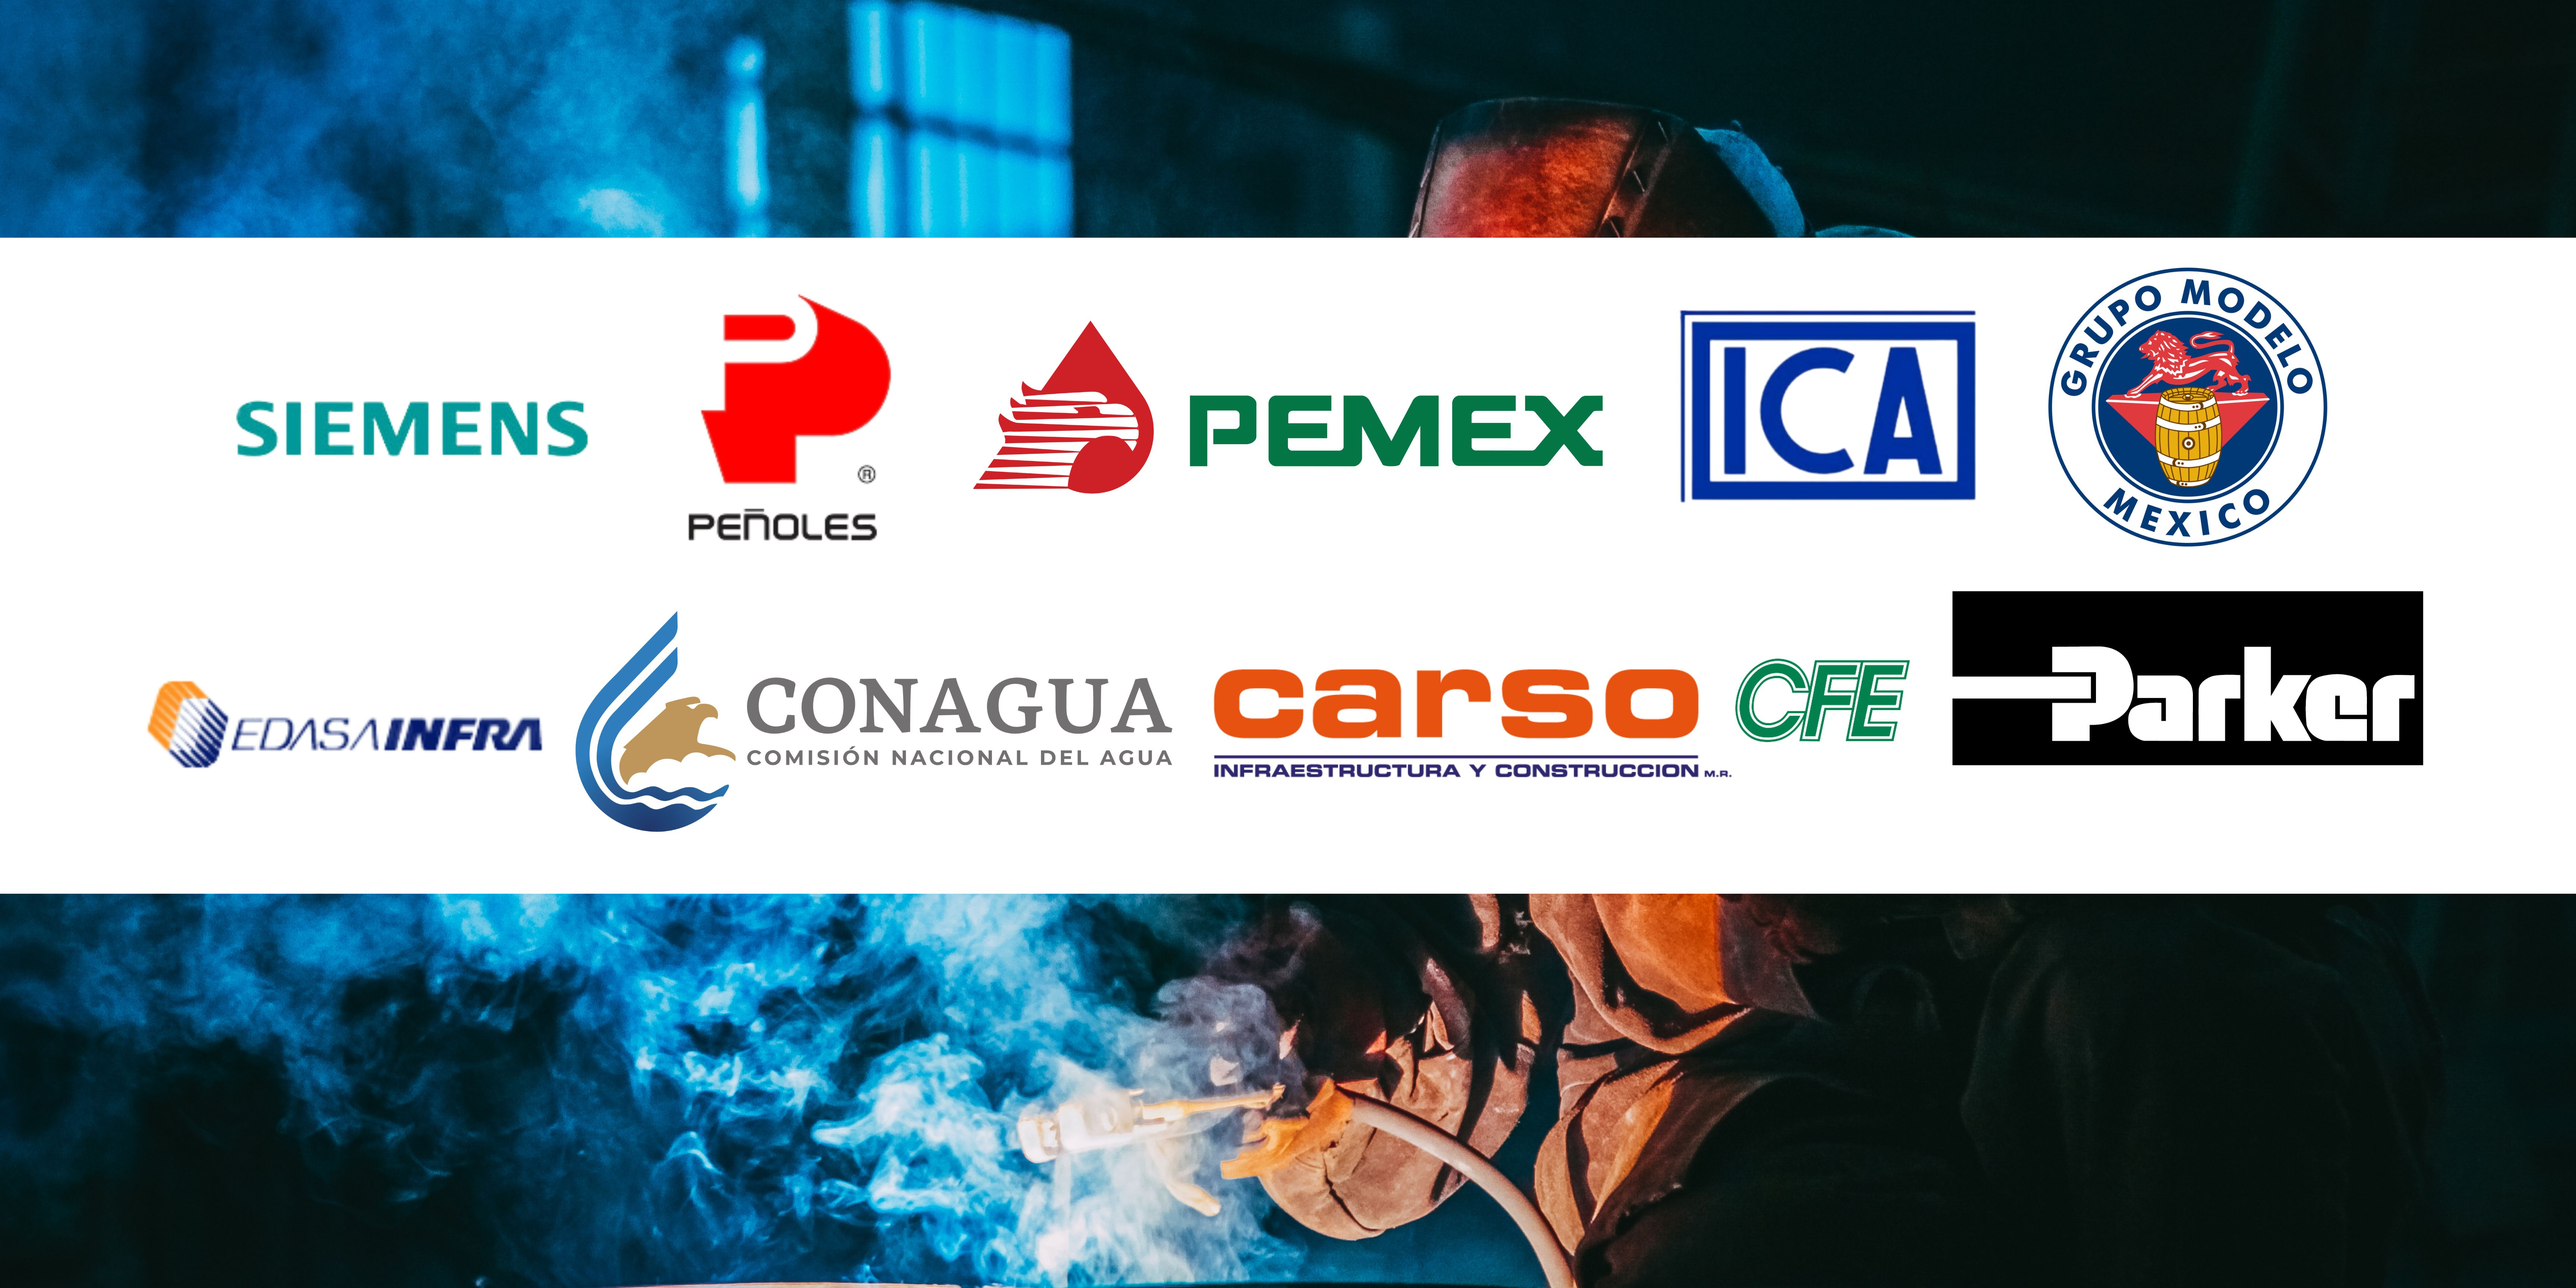
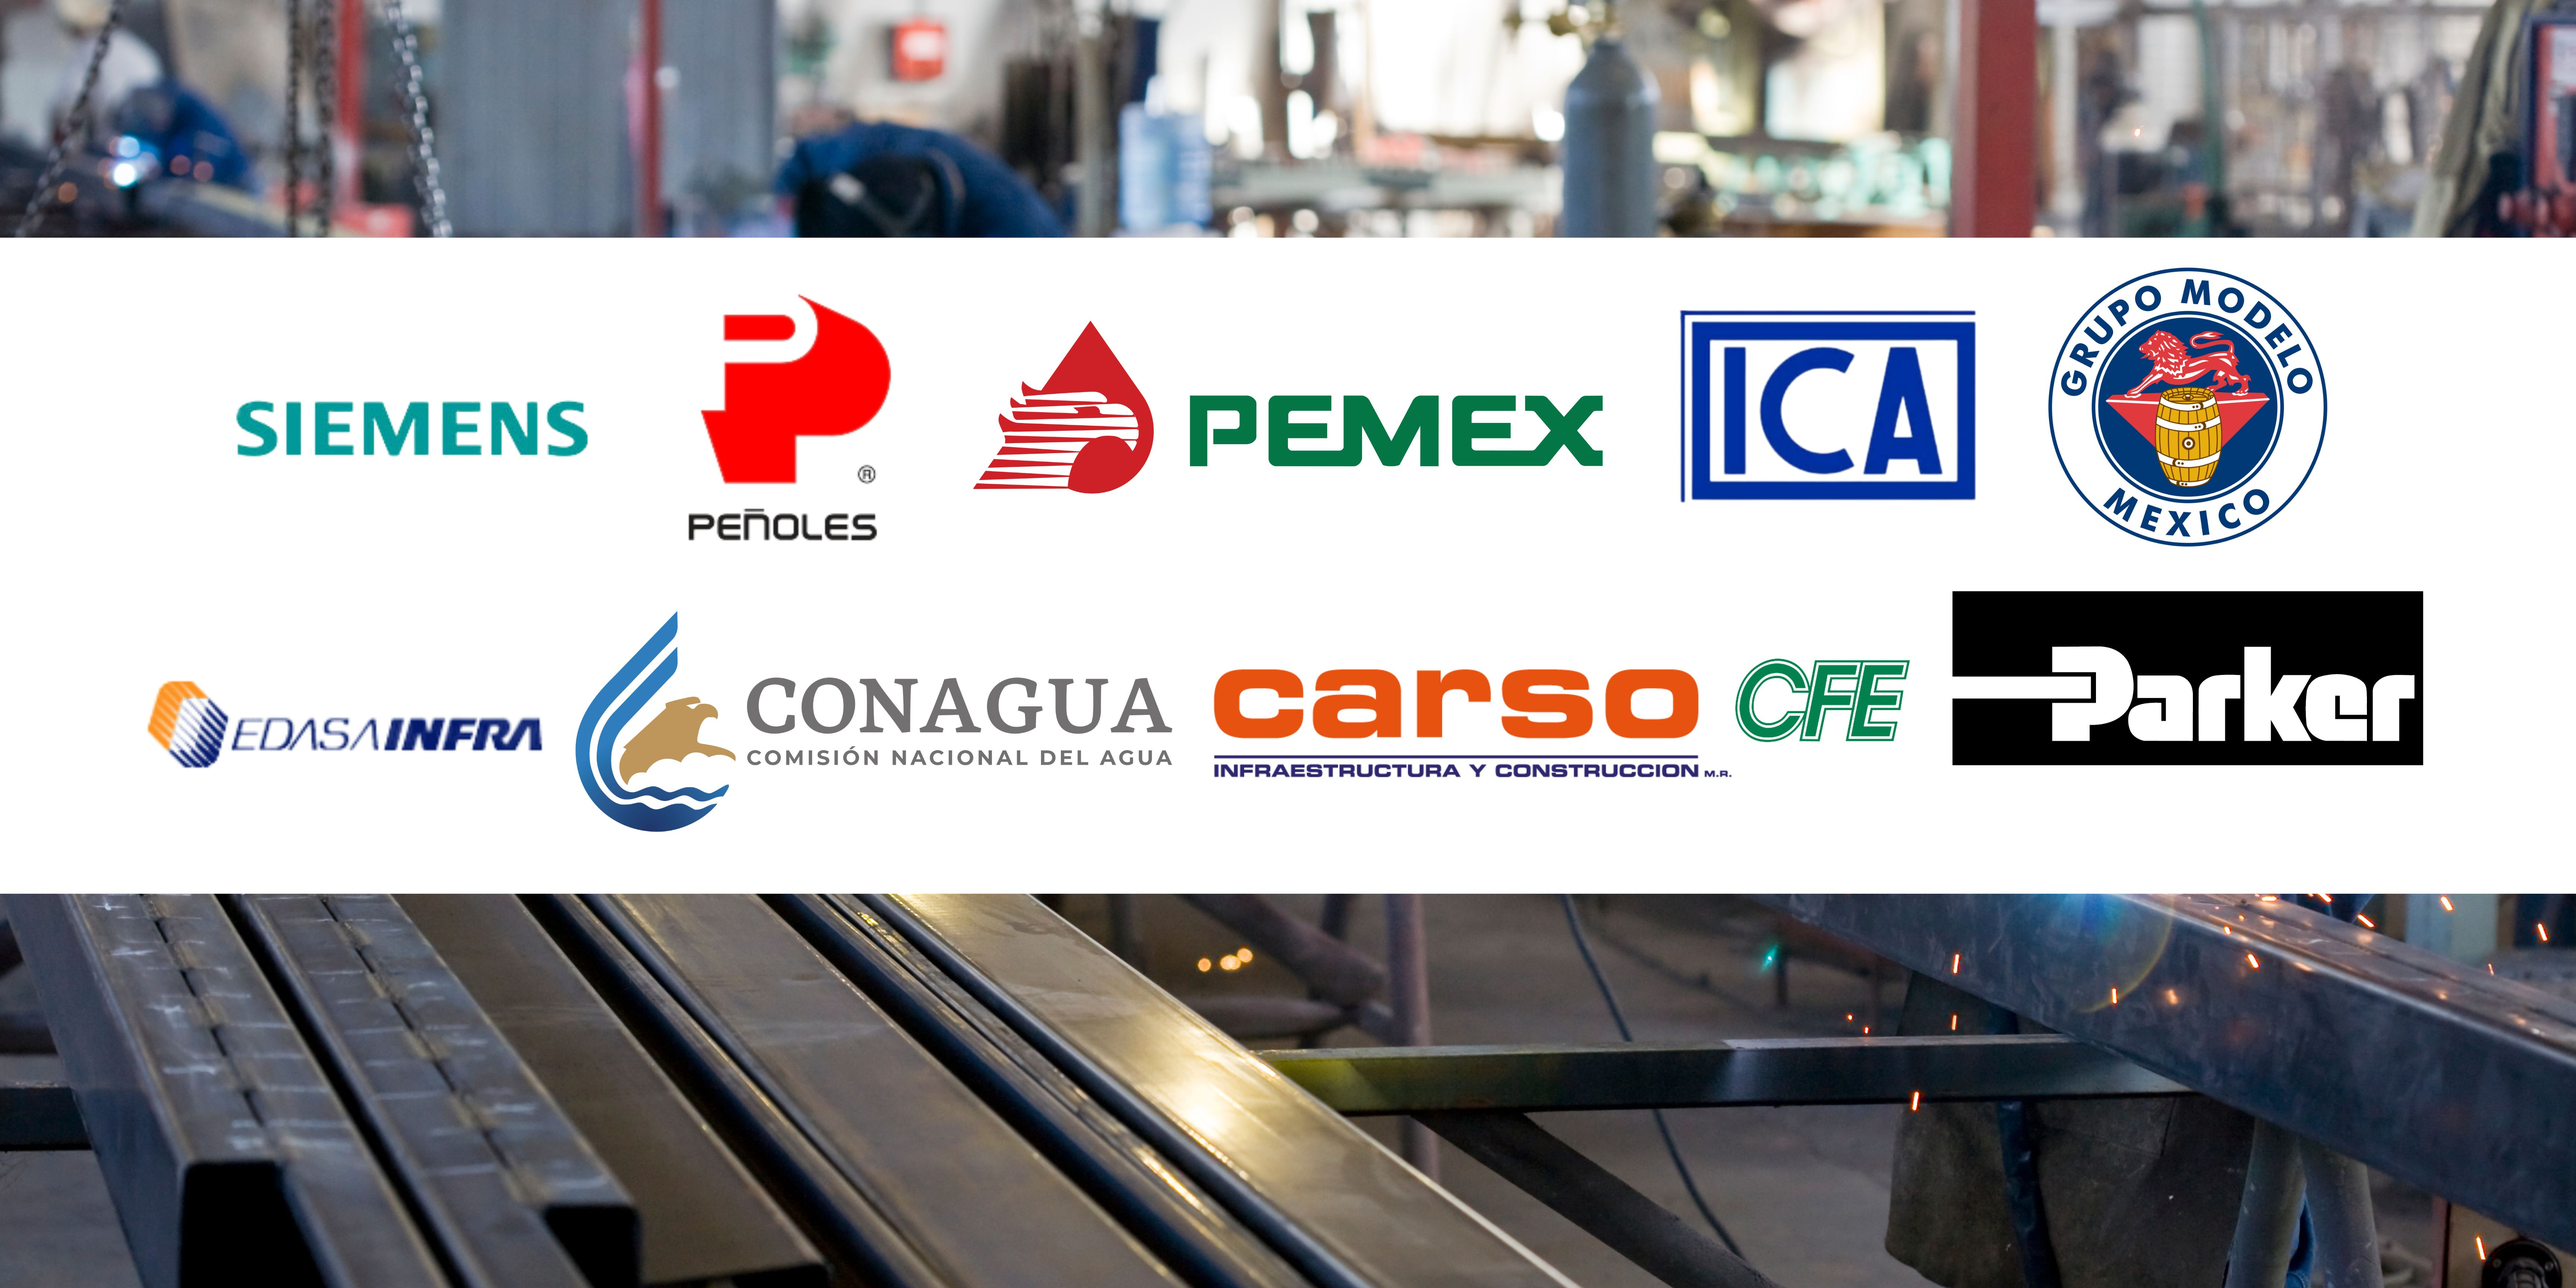
finished site

diff --git a/public/assets/css/style.css b/public/assets/css/style.css
@@ -5,6 +5,13 @@
 }
 .pointer {cursor: pointer;}
 
+.page-footer{
+     background-color: rgb(45, 44, 44) !important;
+     color: white !important;
+}
+.textLink{
+    color: white !important;
+}
 .navItems {
     color: black !important;
     
@@ -20,6 +27,9 @@
 }
 .textBlack{
     color: black;
+}
+.textWhite{
+    color: white !important;
 }
 .titleInicio{
     background-color: rgba(0, 0, 0, 0.678);
@@ -101,12 +111,13 @@
     padding-top: 3rem;
 }
 .clientesB{
-    height: 53rem;
+    height: 40rem;
     background-image: url('/assets/images/bannerClientes.jpg');
     background-position: center;
     background-repeat: no-repeat;
     background-size: cover;
     padding-top: 3rem;
+    background-position: 25% 17%;
 }
 
 .nosotros, .nuestroTrabajo{

diff --git a/server.js b/server.js
@@ -43,6 +43,10 @@ app.get('/privacidad', function (req, res) {
     res.render('privacidad')
 
 });
+app.get('/contacto', function (req, res) {
+    res.render('contacto')
+
+});
 
 
 
